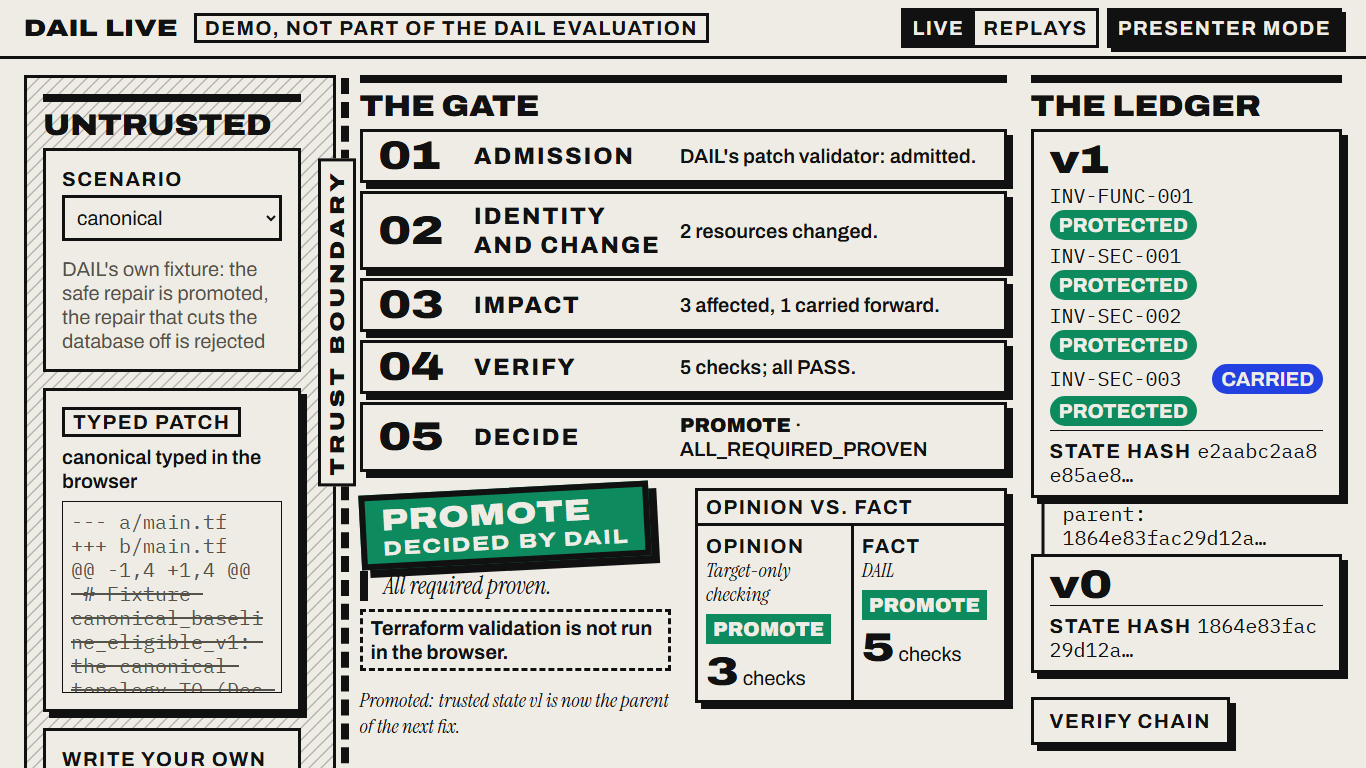
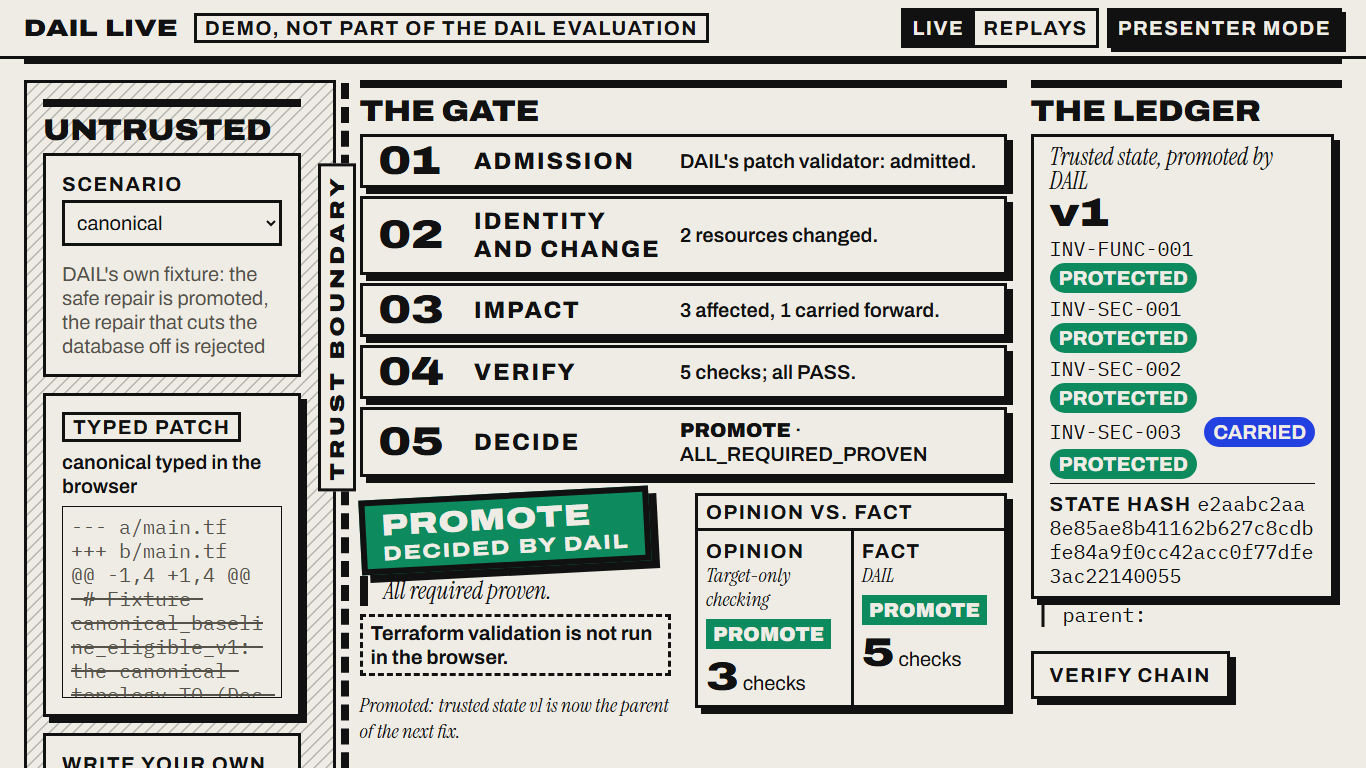
C step 10: one narrow gitleaks exception, tests, screenshots, D-29 to D-31 (PLAN §6)

Changed region(s): [[0.0, 0.0625, 1.0, 1.0]]

diff --git a/tests/test_site_browser.py b/tests/test_site_browser.py
@@ -65,6 +65,14 @@ class SiteInBrowserTests(DataDirCase):
         self.assertEqual(self.r["third"]["clippings"], ["v2", "v1", "v0"])
         self.assertIn("Chain verified by DAIL: 3 trusted states, 4 candidates", self.r["verifyAfterThree"])
 
+    def test_the_stages_fill_while_dail_works(self) -> None:
+        fills = self.r["fills"]
+        self.assertEqual([f["done"] for f in fills], [1, 2, 3, 4, 5])  # one by one, in order
+        self.assertFalse(any(f["stamp"] for f in fills))  # before the trace and the stamp
+        times = [f["t"] for f in fills]
+        self.assertEqual(times, sorted(times))
+        self.assertGreater(times[-1] - times[0], 50)  # spread over DAIL's own work, not one burst
+
     def test_switching_modes_keeps_the_session(self) -> None:
         self.assertTrue(self.r["verifyHiddenInReplays"])
         for key in ("clippings", "stamp", "issue"):
@@ -72,9 +80,11 @@ class SiteInBrowserTests(DataDirCase):
 
     def test_presenter_mode_fits_in_live_mode(self) -> None:
         fits = self.r["presenterLive"]
-        for key in ("stages", "stamp", "ovf", "ledger"):
+        for key in ("stages", "stamp", "ovf", "ledger", "newest"):
             self.assertLessEqual(fits[key], fits["vh"], key)
-        self.assertEqual(fits["clippings"], 2)  # the two newest
+        self.assertEqual(fits["clippings"], 3)  # every state is there
+        self.assertTrue(fits["mastheadKept"])
+        self.assertGreaterEqual(fits["labelTop"], 0)  # the demo label stays visible
         self.assertEqual(fits["over"], [])
 
     def test_the_candidate_card_crosses_the_trust_boundary(self) -> None:
@@ -105,6 +115,8 @@ class SiteInBrowserTests(DataDirCase):
                 if "gemini" in replay["file"]:
                     self.assertGreater(replay["gemini"], 0)
         self.assertFalse(self.r["pyodideRequestedInReplays"])
+        self.assertLess(self.r["firstLoad_replays"]["bytes"], 1_000_000)
+        self.assertGreater(self.r["firstLoad_live"]["bytes"], 15_000_000)  # the worker's downloads are counted
 
     def test_motion_presenter_and_layout(self) -> None:
         self.assertTrue(self.r["reducedMotionClass"])

diff --git a/tests/test_gitleaks_config.py b/tests/test_gitleaks_config.py
@@ -1,0 +1,46 @@
+"""``.gitleaks.toml`` keeps every default rule and allows one thing only (D-30)."""
+
+from __future__ import annotations
+
+import re
+import tomllib
+import unittest
+
+from tests.support import REPO_ROOT
+
+
+class GitleaksConfigTests(unittest.TestCase):
+    def setUp(self) -> None:
+        self.config = tomllib.loads((REPO_ROOT / ".gitleaks.toml").read_text(encoding="utf-8"))
+        self.allow = self.config["allowlist"]
+
+    def test_the_default_rules_stay_on_and_nothing_else_is_allowed(self) -> None:
+        self.assertEqual(self.config["extend"], {"useDefault": True})
+        self.assertEqual(set(self.config), {"title", "extend", "allowlist"})
+        self.assertEqual(set(self.allow), {"description", "condition", "regexTarget", "paths", "regexes"})
+        self.assertEqual((self.allow["condition"], self.allow["regexTarget"]), ("AND", "line"))
+        self.assertEqual((len(self.allow["paths"]), len(self.allow["regexes"])), (1, 1))
+        self.assertFalse((REPO_ROOT / ".gitleaksignore").exists())
+
+    def test_only_an_edge_key_hash_line_matches(self) -> None:
+        line = re.compile(self.allow["regexes"][0])
+        self.assertTrue(line.search('          "edge_key": "' + "0a" * 32 + '",'))
+        for other in (
+            '"api_key": "' + "0a" * 32 + '",',
+            '"edge_key": "AIza' + "x" * 35 + '",',
+            '"edge_key": "' + "0a" * 31 + '",',
+            '"edge_key": "' + "0a" * 32 + '", "api_key": "x"',
+        ):
+            with self.subTest(line=other[:24]):
+                self.assertIsNone(line.search(other))
+
+    def test_only_recorded_runs_match(self) -> None:
+        path = re.compile(self.allow["paths"][0])
+        self.assertTrue(path.search("site/runs/canonical--safe.json"))
+        for other in ("site/index.html", "dail_demo/gemini.py", "site/runs/x/y.json", "other/site/runs/a.json"):
+            with self.subTest(path=other):
+                self.assertIsNone(path.search(other))
+
+
+if __name__ == "__main__":
+    unittest.main()

diff --git a/tests/test_session.py b/tests/test_session.py
@@ -72,6 +72,25 @@ class SessionTests(unittest.TestCase):
         self.assertEqual([s.state_hash for s in stored], [c["state_hash"] for c in ledger])
         self.assertEqual(head.state_id, ledger[0]["state_id"])
 
+    def test_dails_audit_events_are_reported_as_they_are_committed(self) -> None:
+        import shutil
+
+        from dail_demo import evaluate_core as core
+
+        events: list[str] = []
+        self.session.run.on_event = events.append
+        again = self.root / "candidate-again"
+        shutil.copytree(self.root / "candidate-2", again)
+        trace = self.session.submit(
+            core.Candidate(source=core.FIXED_PATCH, label="again", directory=again), label="test", versions={}
+        )
+        with self.session.run.factory() as uow:
+            stored = uow.audit.list_for_candidate(self.session.candidates[-1])
+        self.assertEqual(events, [e.event_type.value for e in stored])
+        order = [events.index(n) for n in ("IDENTITY_COMPLETED", "IMPACT_COMPLETED", "VERIFICATION_COMPLETED", "PROMOTION_DECIDED")]
+        self.assertEqual(order, sorted(order))
+        self.assertEqual(trace["conditions"]["C"]["decision"]["type"], "REJECT")
+
     def test_target_only_never_touches_the_session(self) -> None:
         self.assertEqual(self.traces[1]["conditions"]["A"]["decision"]["type"], "PROMOTE")
         self.assertIsNone(self.traces[1]["conditions"]["A"]["store"])

diff --git a/tests/test_engine.py b/tests/test_engine.py
@@ -117,6 +117,16 @@ class CanonicalEngineTests(DataDirCase):
         self.assertTrue(path.read_text(encoding="utf-8").startswith("{"))
         assert_no_key(self, path.read_text(encoding="utf-8"), str(path))
 
+    def test_the_canonical_inputs_are_dails_committed_bytes(self) -> None:
+        import json
+
+        trace, _ = self.run_patch("regression")
+        pack = json.loads(
+            (Path(__file__).resolve().parent.parent / "site/vendor/scenarios/canonical/scenario.json").read_text(encoding="utf-8")
+        )
+        self.assertEqual(trace["scenario"]["step_hashes"][0], pack["hashes"]["0"])
+        self.assertEqual(trace["admission"]["content_hash"], pack["patches"]["regression"]["content_hash"])
+
     def test_only_cs_store_is_kept(self) -> None:
         trace, path = self.run_patch("regression")
         run_root = self.data / "runs" / trace["run_id"]

diff --git a/docs/DECISIONS.md b/docs/DECISIONS.md
@@ -28,7 +28,10 @@ Every choice not fixed in `docs/PLAN.md` is recorded here, with its reason and d
 | D-22 | 2026-11-26 | **The browser feasibility gate passed; live mode stays.** In headless Chromium 149 (Playwright 1.61.1), Pyodide 0.27.7 with its `sqlite3` package (SQLite 3.39.0) loaded the bundled, unmodified DAIL v1.0 and `evaluate_core` in about 5 s (16,782,340 bytes), and evaluated the canonical `safe` and `regression` patches and the fixed patch of each of the seven curated scenarios in about 2 s each. For all nine, the browser trace equals the native engine's on decision type and reason, blocking conditions, check counts for C and A, affected invariants with impact types, carried-forward invariants, change types, every verification result and the proof plan (`tests/test_browser.py`). The SQLite-backed orchestrator path that PLAN §3.8 marked as not yet verified is verified. | PLAN §3.8: package C's first step decides whether live mode ships. | C work package §1 |
 | D-23 | 2026-11-26 | **Status colours in the ledger.** An invariant's status uses the PASS and FAIL colours: PROTECTED (its check passed) in `--signal-green`, VIOLATED (its check failed) in `--signal-red`; every pill also carries the status as text. `--cobalt` marks a reference carried forward, `--marker` an affected invariant; nothing else uses either. | §3.7 gives every colour one meaning; PROTECTED and VIOLATED are DAIL's PASS and FAIL for an invariant, so no colour gains a second meaning. | PLAN §3.7 |
 | D-24 | 2026-11-26 | **Contrast ratios (WCAG 2.x, computed from the §3.7 tokens).** ink on paper 15.97:1 (body text, borders, rules); muted on paper 6.60:1 (secondary text); paper on ink 15.97:1 (pressed buttons, the mode toggle); ink on marker 13.38:1 (affected-invariant pills); paper on cobalt 6.17:1 (carried-forward pills); cobalt on paper 6.17:1 (links, the focus outline); paper on red 3.72:1 and paper on green 3.69:1: below 4.5:1, so every text on red or green is set as **large text** (at least 19 px and weight 700 or more, or larger: stamps, PASS and FAIL pills, PROMOTE and REJECT verdicts), which needs 3:1; ink over the untrusted zone's diagonal hatch at its darkest pixel (#B0AFAA) 8.59:1. No red or green text is set on paper. Every pair meets 4.5:1 for body text or 3:1 for large text. | PLAN §3.7 requires paper text on red and green and AA for every pair; setting that text large is the only way to meet both. | PLAN §3.7; C work package §5 |
-| D-25 | 2026-11-26 | **Presenter mode at 1366 x 768.** The type scale is +25% (body 20 px); the masthead's large title is hidden (the sticky band with "DAIL LIVE", the demo label and the toggles stays); the stages run full width, one row each (number, title, DAIL's one-line summary; the details are hidden); the stamp and the Opinion vs. Fact box sit side by side under them; the newest clipping shows its four statuses and a 16-character state hash (full hash on hover), older clippings their version and hash. Only the two newest states are shown. Measured in headless Chromium, live mode with a three-state ledger, page at the top: the stages end at 472 px, the stamp at 571 px, Opinion vs. Fact at 703 px and the ledger at 685 px of 768. | §3.7: "keeps the decision, the stages and the ledger on one screen at 1366 x 768". | PLAN §3.7 |
-| D-26 | 2026-11-26 | **Live mode loads on demand.** The page opens in Replays (no Pyodide requested: about 330 kB, 12 requests); Live loads DAIL when the visitor chooses it, or at once with `?mode=live` (about 17.0 MB, 251 requests, ready in 5 to 7 s from a local server on the authors' laptop). The loading state names the real size from `vendor/files.json` and every bundled file is checked against its SHA-256 in the browser before use. Pyodide runs on the page's main thread: during an evaluation (about 2 s) the page shows "DAIL is checking…". | Replays must work while Pyodide loads and without it; a phone visitor who only watches replays never downloads 17 MB. | PLAN §3.8 |
-| D-27 | 2026-11-26 | **Recorded runs (`python -m dail_demo record`, 26 Nov 2026, on the authors' laptop with `X:\pins\dail-v1.0`, `X:\pins\terrapreserve-r3` and the Terraform gate on).** 14 runs: canonical safe and regression, the seven curated fixed patches, `tp-v1-F8-0196`'s steps 1 and 2 in one session (step 1 promoted by both; step 2 rejected by DAIL, promoted by target-only; the session's chain verified), and Gemini (`gemini-3.5-flash-lite`, models.get version `3.5-flash-lite-07-2026`, `--attempts 3`) on `canonical`, `tp-v1-F4-0092` and `tp-v1-F4-0093`: each returned a valid patch on its first attempt, and DAIL and target-only both promoted each one. `record` refuses a trace that contains the key, its first 6 characters or a local path; an earlier attempt was refused (nothing written) because a UNC-path pattern matched escaped newlines in a model reply; the pattern was removed. | The replays are real runs, recorded as they came out. | C work package §3 |
-| D-28 | 2026-11-26 | **The bundle takes DAIL's committed bytes.** `bundle` reads DAIL's files and the canonical fixture from git (`git cat-file blob HEAD:<file>`), not from the working files. DAIL v1.0 has no `.gitattributes`, so a Windows checkout with `core.autocrlf=true` holds CRLF copies; the first bundle contained those and CI refused it. The recorded canonical runs of D-27 were made from the CRLF working files: their admission `content_hash` (and the S0 hash in the canonical Gemini run) are those of the CRLF files; CI evaluates the LF files with the same decisions and check counts. | The site must serve DAIL exactly as released, whatever the platform that bundles it. | C work package §1; PR #3 CI |
+| D-25 | 2026-11-26 | **Presenter mode at 1366 x 768.** The type scale is +25% (body 20 px); switching it on scrolls the zones under the sticky band (the masthead is one scroll up; the band with the demo label is always visible); the stages run full width, one row each (number, title, DAIL's one-line summary; the details are hidden); the stamp and the Opinion vs. Fact box sit side by side under them; every clipping is shown in full, newest on top, and a ledger longer than the screen scrolls in place. To fit, the zones take columns 1-3, 4-9 and 10-12 in this mode only (D-29). `tests/test_site_browser.py` measures that the stages, the stamp, Opinion vs. Fact, the newest clipping and the ledger end inside 768 px. | §3.7: "keeps the decision, the stages and the ledger on one screen at 1366 x 768". | PLAN §3.7 |
+| D-26 | 2026-11-26 | **Live mode loads on demand.** The page opens in Replays (no Pyodide requested: about 330 kB, 12 requests); Live loads DAIL when the visitor chooses it, or at once with `?mode=live` (about 17.0 MB, 251 requests, ready in 5 to 7 s from a local server on the authors' laptop). The loading state names the real size from `vendor/files.json` and every bundled file is checked against its SHA-256 in the browser before use. Pyodide runs in a Web Worker, so the page stays responsive (D-29). | Replays must work while Pyodide loads and without it; a phone visitor who only watches replays never downloads 17 MB. | PLAN §3.8 |
+| D-27 | 2026-11-26 | **Recorded runs (`python -m dail_demo record`, 26 Nov 2026, on the authors' laptop with `X:\pins\dail-v1.0`, `X:\pins\terrapreserve-r3` and the Terraform gate on).** 14 runs: canonical safe and regression, the seven curated fixed patches, `tp-v1-F8-0196`'s steps 1 and 2 in one session (step 1 promoted by both; step 2 rejected by DAIL, promoted by target-only; the session's chain verified), and Gemini (`gemini-3.5-flash-lite`, models.get version `3.5-flash-lite-07-2026`, `--attempts 3`) on `canonical`, `tp-v1-F4-0092` and `tp-v1-F4-0093`: each returned a valid patch on its first attempt, and DAIL and target-only both promoted each one. `record` refuses a trace that contains the key, its first 6 characters or a local path; an earlier attempt was refused (nothing written) because a UNC-path pattern matched escaped newlines in a model reply; the pattern was removed. The published set is the second full recording of the same day, from DAIL's committed bytes (D-28): the same decisions, check counts and Gemini outcomes. | The replays are real runs, recorded as they came out. | C work package §3 |
+| D-28 | 2026-11-26 | **The bundle takes DAIL's committed bytes.** `bundle` reads DAIL's files and the canonical fixture from git (`git cat-file blob HEAD:<file>`), not from the working files. DAIL v1.0 has no `.gitattributes`, so a Windows checkout with `core.autocrlf=true` holds CRLF copies; the first bundle contained those and CI refused it. The local engine, `generate` and `record` read the canonical fixture the same way, and the runs were recorded again from the committed bytes. | The site must serve DAIL exactly as released, whatever the platform that bundles it. | C work package §1; PR #3 CI |
+| D-29 | 2026-11-26 | **Real-time stages, and the presenter columns.** Live mode runs DAIL in a Web Worker (`site/assets/js/dail-worker.js`). The core reports each audit event of the candidate as DAIL commits it: the orchestrator opens one unit of work per stage through the factory it is given, and when it opens the next one the core reads the new events with DAIL's public `audit.list_for_candidate`. DAIL's `checkpoint` hook, which DAIL reserves for tests, is not used. So the stage blocks fill as DAIL finishes them (PLAN §3.7); each block's detailed output and the stamp appear when the trace arrives. Replays, where DAIL has already run, play the same sequence. Presenter mode uses other column spans (3/6/3) so that +25% type fits on one 1366x768 screen: a departure from the 4/4/4 grid in that mode only, decided by Claude Code after the user delegated the open points ("fix all by your own mind", 26 Nov 2026), after it was first built. | PLAN §3.7 asks both for the grid and for one screen at +25%; 4/4/4 cannot hold both. | PLAN §3.7; user, 26 Nov 2026 |
+| D-30 | 2026-11-26 | **One gitleaks exception (amends D-11).** `.gitleaks.toml` keeps every default rule and allows exactly one kind of line, `"edge_key": "<64 hex digits>"`, in `site/runs/*.json` only (both conditions must hold). The 112 findings of PR #3's `secrets` job were all that field, DAIL's dependency-graph edge hash. `tests/test_gitleaks_config.py` fails if the file allows more. | The field's name triggers `generic-api-key`; the traces must stay scanned for real keys. | PR #3 CI; user, 26 Nov 2026 |
+| D-31 | 2026-11-26 | PLAN §3.8: the sentence "The site states that it needs internet for this." is removed. | It described the CDN that D-20 replaced. | D-20; user, 26 Nov 2026 |

diff --git a/docs/PLAN.md b/docs/PLAN.md
@@ -118,7 +118,7 @@ Only DAIL's lineage advances. Condition A never becomes the session's trusted st
   - it took under 1 second;
   - Pyodide's `sqlite3` package could not be fetched in that sandbox, so the SQLite-backed orchestrator path in the browser is **not yet verified**. Package C must verify it first.
 - **Ledger:** an in-memory SQLite store per browser tab. A promotion advances the tab's trusted state; reloading the page starts over.
-- **Pyodide** is self-hosted: the pinned release's runtime files and its `sqlite3` package are copied into `site/vendor/pyodide/<version>/` with SHA-256 hashes, so the site has no runtime CDN dependency and works on networks that block CDNs. The site states that it needs internet for this.
+- **Pyodide** is self-hosted: the pinned release's runtime files and its `sqlite3` package are copied into `site/vendor/pyodide/<version>/` with SHA-256 hashes, so the site has no runtime CDN dependency and works on networks that block CDNs.
 - **Honest limit:** `terraform validate` cannot run in a browser. In live mode, admission is DAIL's own parser and patch validator only. The page says so plainly next to every live decision: "Terraform validation is not run in the browser."
 
 **2. Replays** (guaranteed to work).
